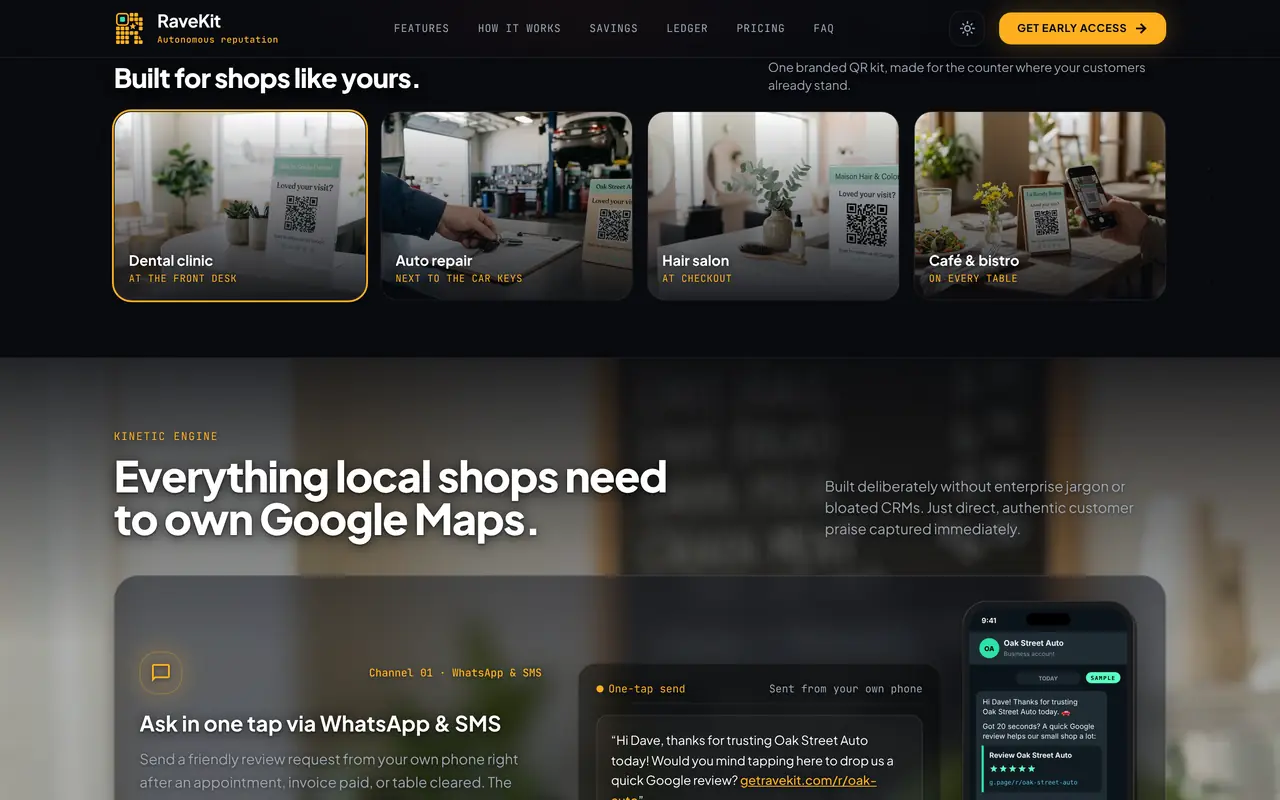
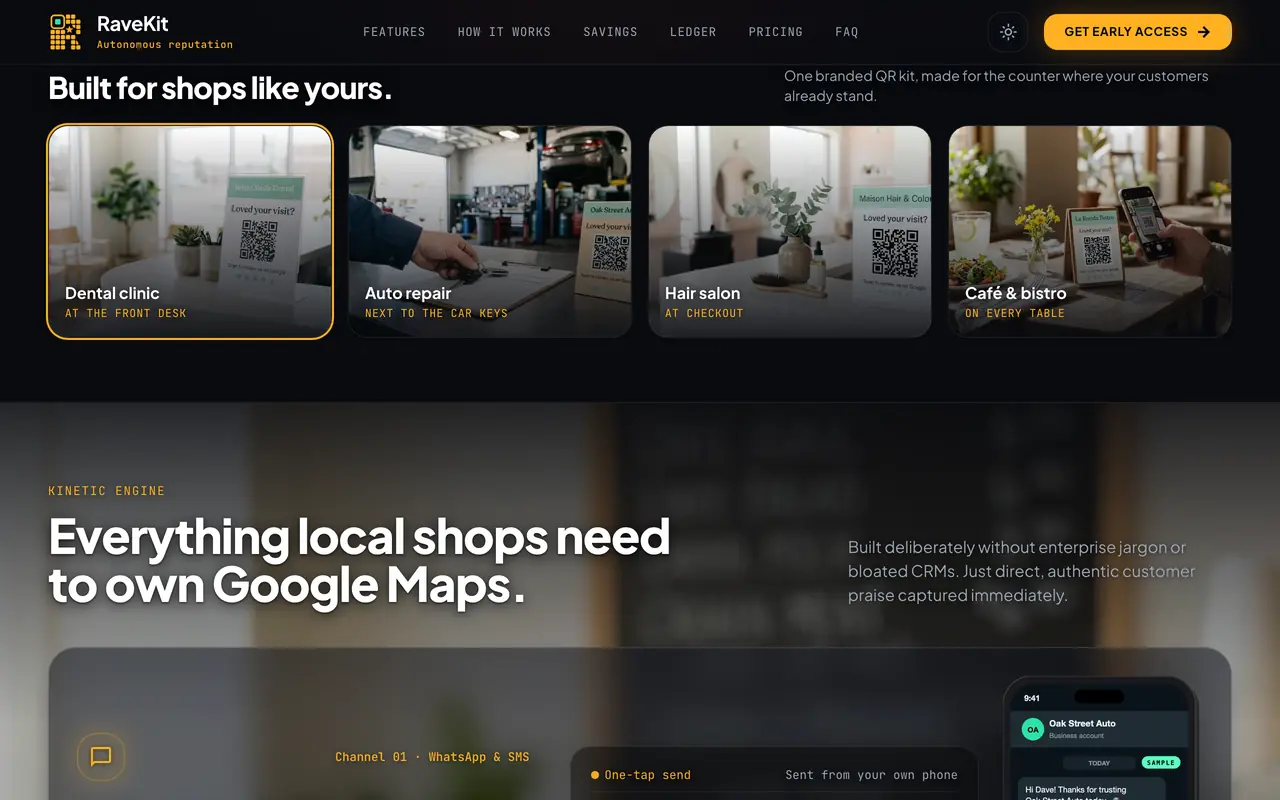
Portfolio: RaveKit oscuro recapturado (compu y celular)
Capturas por seccion de getravekit.com en oscuro, esperando que terminen
las animaciones; la pantalla 10 de celular ya no tiene el bloque blanco.
El claro queda como estaba: en el sitio en vivo el modo claro deja el fondo
oscuro (.bg-background fijo en rgb 9 10 15). Suma las imagenes de public
de Palquear oscuro que faltaban en d649cbf.

diff --git a/portfolio/public/index.html b/portfolio/public/index.html
@@ -219,7 +219,7 @@ h1{font:800 clamp(44px,9vw,128px)/.9 var(--display);overflow-wrap:anywhere;lette
 <section class="proyecto" id="ravekit">
   <header class="cab"><div class="logo f-lamina"><img src="img/p/ravekit-logo-4d8887c0.webp" width="512" height="320" alt="RaveKit" loading="lazy"></div><div><span class="num">13</span><span class="tipo">App</span><h2>RaveKit</h2><p>Autonomous reputation.</p><div class="temas" role="group" aria-label="Modo de color"><button type="button" class=on data-tema="cla" aria-pressed="true">Claro</button><button type="button" data-tema="osc" aria-pressed="false">Oscuro</button></div></div></header>
   <div class="sims" data-tema="cla"><figure class="sim compu"><div class="marco"><div class="barra-nav"><i></i><i></i><i></i></div><div class="pantalla"><img data-src="img/p/ravekit-d-01-6c8c46e9.webp" width="1280" height="800" style="background:#090b0f" alt="RaveKit: Escritorio 1 de 10" class=on><img data-src="img/p/ravekit-d-02-e13c9eb0.webp" width="1280" height="800" style="background:#2b3030" alt="RaveKit: Escritorio 2 de 10"><img data-src="img/p/ravekit-d-03-4ec01071.webp" width="1280" height="800" style="background:#282a27" alt="RaveKit: Escritorio 3 de 10"><img data-src="img/p/ravekit-d-04-95b5a625.webp" width="1280" height="800" style="background:#faebe6" alt="RaveKit: Escritorio 4 de 10"><img data-src="img/p/ravekit-d-05-47f03961.webp" width="1280" height="800" style="background:#fef9f4" alt="RaveKit: Escritorio 5 de 10"><img data-src="img/p/ravekit-d-06-4dd83e68.webp" width="1280" height="800" style="background:#ecebe8" alt="RaveKit: Escritorio 6 de 10"><img data-src="img/p/ravekit-d-07-e22b55e7.webp" width="1280" height="800" style="background:#eeece8" alt="RaveKit: Escritorio 7 de 10"><img data-src="img/p/ravekit-d-08-8cb583c0.webp" width="1280" height="800" style="background:#f7f9fb" alt="RaveKit: Escritorio 8 de 10"><img data-src="img/p/ravekit-d-09-4c812a42.webp" width="1280" height="800" style="background:#e4e2de" alt="RaveKit: Escritorio 9 de 10"><img data-src="img/p/ravekit-d-10-438b652f.webp" width="1280" height="800" style="background:#ece8e3" alt="RaveKit: Escritorio 10 de 10"></div></div><div class="nav"><button type="button" class="ant" aria-label="Anterior">&#8592;</button><span class="cuenta">1 / 10</span><button type="button" class="sig" aria-label="Siguiente">&#8594;</button></div><div class="puntos"><button type="button" aria-label="Ver 1" class=on></button><button type="button" aria-label="Ver 2"></button><button type="button" aria-label="Ver 3"></button><button type="button" aria-label="Ver 4"></button><button type="button" aria-label="Ver 5"></button><button type="button" aria-label="Ver 6"></button><button type="button" aria-label="Ver 7"></button><button type="button" aria-label="Ver 8"></button><button type="button" aria-label="Ver 9"></button><button type="button" aria-label="Ver 10"></button></div><figcaption>Escritorio</figcaption></figure><figure class="sim cel"><div class="marco"><div class="isla"></div><div class="pantalla"><img data-src="img/p/ravekit-m-01-5a0e5128.webp" width="390" height="844" style="background:#906a26" alt="RaveKit: Celular 1 de 9" class=on><img data-src="img/p/ravekit-m-02-709109d1.webp" width="390" height="844" style="background:#f6f4f0" alt="RaveKit: Celular 2 de 9"><img data-src="img/p/ravekit-m-03-90e59a94.webp" width="390" height="844" style="background:#343537" alt="RaveKit: Celular 3 de 9"><img data-src="img/p/ravekit-m-04-ecc6d0e7.webp" width="390" height="844" style="background:#1c2224" alt="RaveKit: Celular 4 de 9"><img data-src="img/p/ravekit-m-05-5feb474f.webp" width="390" height="844" style="background:#2b241f" alt="RaveKit: Celular 5 de 9"><img data-src="img/p/ravekit-m-06-5f10bab3.webp" width="390" height="844" style="background:#e4f0ea" alt="RaveKit: Celular 6 de 9"><img data-src="img/p/ravekit-m-07-63328eb0.webp" width="390" height="844" style="background:#fcfdfd" alt="RaveKit: Celular 7 de 9"><img data-src="img/p/ravekit-m-08-8c57721d.webp" width="390" height="844" style="background:#f3f0ee" alt="RaveKit: Celular 8 de 9"><img data-src="img/p/ravekit-m-09-7352c49a.webp" width="390" height="844" style="background:#f9ece8" alt="RaveKit: Celular 9 de 9"></div></div><div class="nav"><button type="button" class="ant" aria-label="Anterior">&#8592;</button><span class="cuenta">1 / 9</span><button type="button" class="sig" aria-label="Siguiente">&#8594;</button></div><div class="puntos"><button type="button" aria-label="Ver 1" class=on></button><button type="button" aria-label="Ver 2"></button><button type="button" aria-label="Ver 3"></button><button type="button" aria-label="Ver 4"></button><button type="button" aria-label="Ver 5"></button><button type="button" aria-label="Ver 6"></button><button type="button" aria-label="Ver 7"></button><button type="button" aria-label="Ver 8"></button><button type="button" aria-label="Ver 9"></button></div><figcaption>Celular</figcaption></figure></div>
-  <div class="sims" data-tema="osc" hidden><figure class="sim compu"><div class="marco"><div class="barra-nav"><i></i><i></i><i></i></div><div class="pantalla"><img data-src="img/p/ravekit-d-osc-01-537c9803.webp" width="1280" height="800" style="background:#110e10" alt="RaveKit: Escritorio 1 de 10" class=on><img data-src="img/p/ravekit-d-osc-02-2c51c473.webp" width="1280" height="800" style="background:#3f433d" alt="RaveKit: Escritorio 2 de 10"><img data-src="img/p/ravekit-d-osc-03-8f657c6d.webp" width="1280" height="800" style="background:#45453f" alt="RaveKit: Escritorio 3 de 10"><img data-src="img/p/ravekit-d-osc-04-28cc9caa.webp" width="1280" height="800" style="background:#20192a" alt="RaveKit: Escritorio 4 de 10"><img data-src="img/p/ravekit-d-osc-05-4dc6ebd5.webp" width="1280" height="800" style="background:#312336" alt="RaveKit: Escritorio 5 de 10"><img data-src="img/p/ravekit-d-osc-06-73525782.webp" width="1280" height="800" style="background:#0c0e11" alt="RaveKit: Escritorio 6 de 10"><img data-src="img/p/ravekit-d-osc-07-fb7a4ad0.webp" width="1280" height="800" style="background:#090b0f" alt="RaveKit: Escritorio 7 de 10"><img data-src="img/p/ravekit-d-osc-08-9e92bf61.webp" width="1280" height="800" style="background:#1a2335" alt="RaveKit: Escritorio 8 de 10"><img data-src="img/p/ravekit-d-osc-09-01108110.webp" width="1280" height="800" style="background:#1b1d20" alt="RaveKit: Escritorio 9 de 10"><img data-src="img/p/ravekit-d-osc-10-3b126563.webp" width="1280" height="800" style="background:#05070b" alt="RaveKit: Escritorio 10 de 10"></div></div><div class="nav"><button type="button" class="ant" aria-label="Anterior">&#8592;</button><span class="cuenta">1 / 10</span><button type="button" class="sig" aria-label="Siguiente">&#8594;</button></div><div class="puntos"><button type="button" aria-label="Ver 1" class=on></button><button type="button" aria-label="Ver 2"></button><button type="button" aria-label="Ver 3"></button><button type="button" aria-label="Ver 4"></button><button type="button" aria-label="Ver 5"></button><button type="button" aria-label="Ver 6"></button><button type="button" aria-label="Ver 7"></button><button type="button" aria-label="Ver 8"></button><button type="button" aria-label="Ver 9"></button><button type="button" aria-label="Ver 10"></button></div><figcaption>Escritorio</figcaption></figure><figure class="sim cel"><div class="marco"><div class="isla"></div><div class="pantalla"><img data-src="img/p/ravekit-m-osc-01-71680674.webp" width="390" height="844" style="background:#9d7229" alt="RaveKit: Celular 1 de 10" class=on><img data-src="img/p/ravekit-m-osc-02-137cfc41.webp" width="390" height="844" style="background:#090b0f" alt="RaveKit: Celular 2 de 10"><img data-src="img/p/ravekit-m-osc-03-13fe1536.webp" width="390" height="844" style="background:#444445" alt="RaveKit: Celular 3 de 10"><img data-src="img/p/ravekit-m-osc-04-ecfdb460.webp" width="390" height="844" style="background:#272d2d" alt="RaveKit: Celular 4 de 10"><img data-src="img/p/ravekit-m-osc-05-d7f5c924.webp" width="390" height="844" style="background:#503e30" alt="RaveKit: Celular 5 de 10"><img data-src="img/p/ravekit-m-osc-06-1674504a.webp" width="390" height="844" style="background:#19202f" alt="RaveKit: Celular 6 de 10"><img data-src="img/p/ravekit-m-osc-07-4c09765f.webp" width="390" height="844" style="background:#1e283a" alt="RaveKit: Celular 7 de 10"><img data-src="img/p/ravekit-m-osc-08-0726c1b6.webp" width="390" height="844" style="background:#1e1522" alt="RaveKit: Celular 8 de 10"><img data-src="img/p/ravekit-m-osc-09-0ae14234.webp" width="390" height="844" style="background:#15111e" alt="RaveKit: Celular 9 de 10"><img data-src="img/p/ravekit-m-osc-10-269c39d8.webp" width="390" height="844" style="background:#ffffff" alt="RaveKit: Celular 10 de 10"></div></div><div class="nav"><button type="button" class="ant" aria-label="Anterior">&#8592;</button><span class="cuenta">1 / 10</span><button type="button" class="sig" aria-label="Siguiente">&#8594;</button></div><div class="puntos"><button type="button" aria-label="Ver 1" class=on></button><button type="button" aria-label="Ver 2"></button><button type="button" aria-label="Ver 3"></button><button type="button" aria-label="Ver 4"></button><button type="button" aria-label="Ver 5"></button><button type="button" aria-label="Ver 6"></button><button type="button" aria-label="Ver 7"></button><button type="button" aria-label="Ver 8"></button><button type="button" aria-label="Ver 9"></button><button type="button" aria-label="Ver 10"></button></div><figcaption>Celular</figcaption></figure></div>
+  <div class="sims" data-tema="osc" hidden><figure class="sim compu"><div class="marco"><div class="barra-nav"><i></i><i></i><i></i></div><div class="pantalla"><img data-src="img/p/ravekit-d-osc-01-4bbbb499.webp" width="1280" height="800" style="background:#2d221f" alt="RaveKit: Escritorio 1 de 10" class=on><img data-src="img/p/ravekit-d-osc-02-2a75229a.webp" width="1280" height="800" style="background:#383b39" alt="RaveKit: Escritorio 2 de 10"><img data-src="img/p/ravekit-d-osc-03-f4764c56.webp" width="1280" height="800" style="background:#3e4440" alt="RaveKit: Escritorio 3 de 10"><img data-src="img/p/ravekit-d-osc-04-75c8377c.webp" width="1280" height="800" style="background:#1e1629" alt="RaveKit: Escritorio 4 de 10"><img data-src="img/p/ravekit-d-osc-05-c778b423.webp" width="1280" height="800" style="background:#332439" alt="RaveKit: Escritorio 5 de 10"><img data-src="img/p/ravekit-d-osc-06-895850dc.webp" width="1280" height="800" style="background:#090b0f" alt="RaveKit: Escritorio 6 de 10"><img data-src="img/p/ravekit-d-osc-07-850df54d.webp" width="1280" height="800" style="background:#5c4823" alt="RaveKit: Escritorio 7 de 10"><img data-src="img/p/ravekit-d-osc-08-e1afa1de.webp" width="1280" height="800" style="background:#1b2436" alt="RaveKit: Escritorio 8 de 10"><img data-src="img/p/ravekit-d-osc-09-156db42e.webp" width="1280" height="800" style="background:#06090d" alt="RaveKit: Escritorio 9 de 10"><img data-src="img/p/ravekit-d-osc-10-f0252bc8.webp" width="1280" height="800" style="background:#05070b" alt="RaveKit: Escritorio 10 de 10"></div></div><div class="nav"><button type="button" class="ant" aria-label="Anterior">&#8592;</button><span class="cuenta">1 / 10</span><button type="button" class="sig" aria-label="Siguiente">&#8594;</button></div><div class="puntos"><button type="button" aria-label="Ver 1" class=on></button><button type="button" aria-label="Ver 2"></button><button type="button" aria-label="Ver 3"></button><button type="button" aria-label="Ver 4"></button><button type="button" aria-label="Ver 5"></button><button type="button" aria-label="Ver 6"></button><button type="button" aria-label="Ver 7"></button><button type="button" aria-label="Ver 8"></button><button type="button" aria-label="Ver 9"></button><button type="button" aria-label="Ver 10"></button></div><figcaption>Escritorio</figcaption></figure><figure class="sim cel"><div class="marco"><div class="isla"></div><div class="pantalla"><img data-src="img/p/ravekit-m-osc-01-61d9bcf5.webp" width="390" height="844" style="background:#db9921" alt="RaveKit: Celular 1 de 10" class=on><img data-src="img/p/ravekit-m-osc-02-e679abc4.webp" width="390" height="844" style="background:#2c2c2d" alt="RaveKit: Celular 2 de 10"><img data-src="img/p/ravekit-m-osc-03-fe0bad3e.webp" width="390" height="844" style="background:#33322e" alt="RaveKit: Celular 3 de 10"><img data-src="img/p/ravekit-m-osc-04-0a25ebd9.webp" width="390" height="844" style="background:#1d283a" alt="RaveKit: Celular 4 de 10"><img data-src="img/p/ravekit-m-osc-05-55a6ee1f.webp" width="390" height="844" style="background:#181220" alt="RaveKit: Celular 5 de 10"><img data-src="img/p/ravekit-m-osc-06-2478c2f0.webp" width="390" height="844" style="background:#32283d" alt="RaveKit: Celular 6 de 10"><img data-src="img/p/ravekit-m-osc-07-a6710146.webp" width="390" height="844" style="background:#242934" alt="RaveKit: Celular 7 de 10"><img data-src="img/p/ravekit-m-osc-08-2cb36d17.webp" width="390" height="844" style="background:#2e3847" alt="RaveKit: Celular 8 de 10"><img data-src="img/p/ravekit-m-osc-09-f2091256.webp" width="390" height="844" style="background:#05070b" alt="RaveKit: Celular 9 de 10"><img data-src="img/p/ravekit-m-osc-10-7e321836.webp" width="390" height="844" style="background:#05070b" alt="RaveKit: Celular 10 de 10"></div></div><div class="nav"><button type="button" class="ant" aria-label="Anterior">&#8592;</button><span class="cuenta">1 / 10</span><button type="button" class="sig" aria-label="Siguiente">&#8594;</button></div><div class="puntos"><button type="button" aria-label="Ver 1" class=on></button><button type="button" aria-label="Ver 2"></button><button type="button" aria-label="Ver 3"></button><button type="button" aria-label="Ver 4"></button><button type="button" aria-label="Ver 5"></button><button type="button" aria-label="Ver 6"></button><button type="button" aria-label="Ver 7"></button><button type="button" aria-label="Ver 8"></button><button type="button" aria-label="Ver 9"></button><button type="button" aria-label="Ver 10"></button></div><figcaption>Celular</figcaption></figure></div>
 </section>
 <section class="proyecto" id="ecos">
   <header class="cab"><div class="logo f-lamina"><img src="img/p/ecos-logo-4dda4485.webp" width="480" height="320" alt="ECOS" loading="lazy"></div><div><span class="num">14</span><span class="tipo">App</span><h2>ECOS</h2><p>Ecos de vos: comunidad de contención emocional.</p><div class="temas" role="group" aria-label="Modo de color"><button type="button" class=on data-tema="cla" aria-pressed="true">Claro</button><button type="button" data-tema="osc" aria-pressed="false">Oscuro</button></div></div></header>
